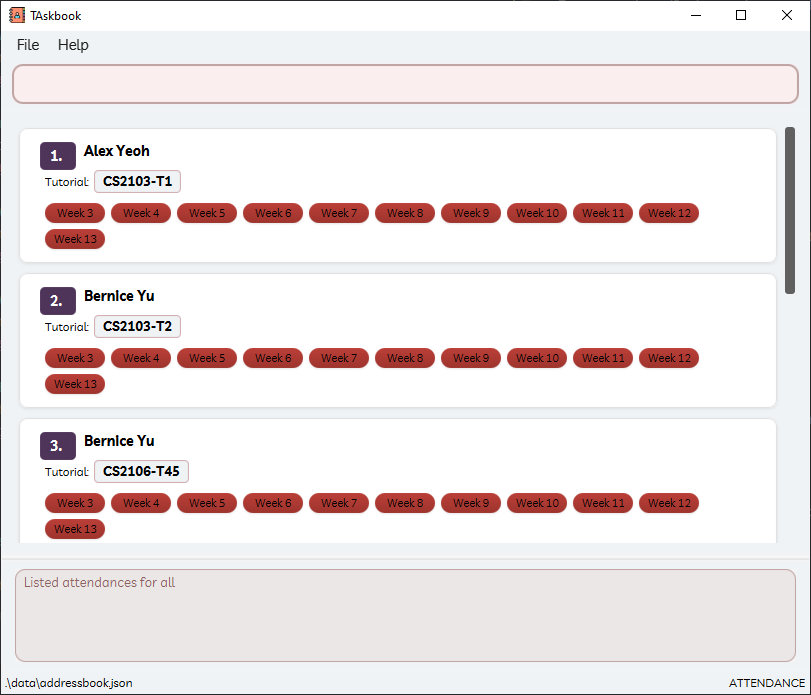
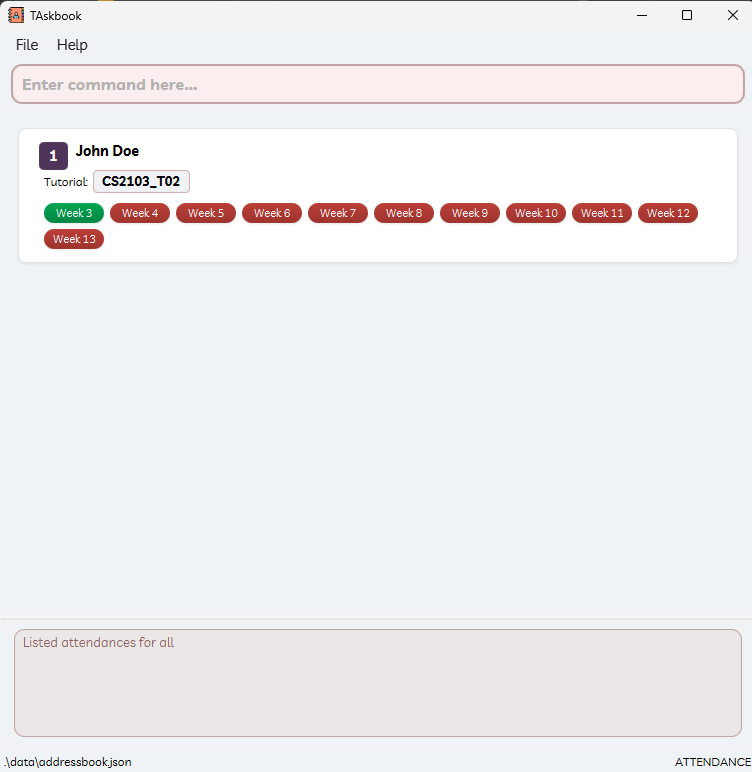
Update attendance UG image and fix attendance index display

diff --git a/src/main/java/seedu/address/ui/attendence/AttendanceCard.java b/src/main/java/seedu/address/ui/attendence/AttendanceCard.java
@@ -46,7 +46,7 @@ public class AttendanceCard extends UiPart<Region> {
     public AttendanceCard(Attendance attendance, int displayedIndex) {
         super(FXML);
         this.attendance = attendance;
-        id.setText(displayedIndex + ". ");
+        id.setText(displayedIndex + "");
         studentName.setText(attendance.student().getName().toString());
         tutorialName.setText(attendance.tutorial().name());
         List<Integer> attendanceList = attendance.attendances();
